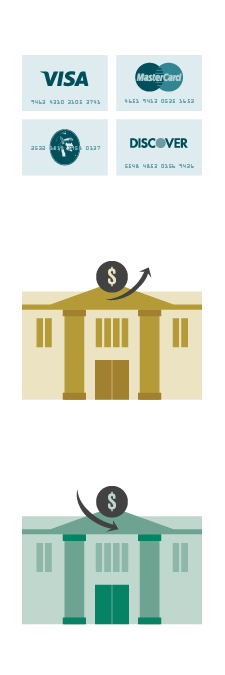
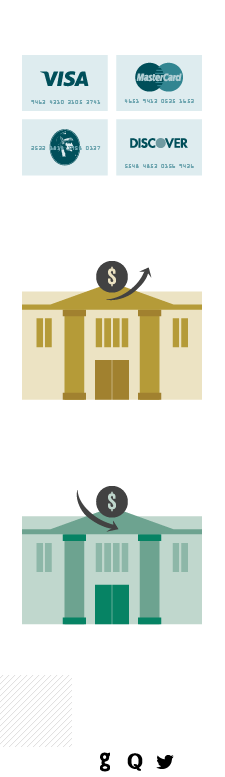
Style footer

diff --git a/static/less/root-v3.less b/static/less/root-v3.less
@@ -9,6 +9,14 @@
 
 @pageBackground: @gray1;
 
+.cssicon(@url, @width, @height, @display: inline-block) {
+  background: @url;
+  width: @width;
+  height: @height;
+  text-indent: -4000px;
+  display: @display;
+}
+
 a {
   &:hover {
     color: @black;
@@ -147,6 +155,54 @@ header {
   }
 }
 
+@media screen {
+  .print-header, .printable {
+    display: none;
+  }
+}
+
+@media print {
+  .ns .main-content-box {
+    border: 0;
+    box-shadow: none;
+    width: 100%;
+    margin: 0;
+  }
+  header, #app-menu, .sub-nav, .sn, .mask, footer {
+    display: none;
+  }
+  .boss {
+    display: block;
+    position: absolute;
+    top: 0;
+    left: 0;
+    width: 100% !important;
+  }
+  .printable {
+    display: block;
+  }
+  .print-header {
+    display: block;
+    position: absolute;
+    top: 0;
+    right: 0;
+    left:0;
+    text-align: right;
+    font-size: 80%;
+    line-height: 1.2em;
+  }
+  #print-logo {
+    display:block;
+    margin:auto;
+    width:171px;
+    height: 75px;
+    text-indent:-4000px;
+  }
+  .v2-detail {
+    margin-top: 200px;
+  }
+}
+
 #site-nav {
   .nav-menu-wrapper {
     float: right;
@@ -174,48 +230,101 @@ header {
       &:hover {
         background-color: @white;
         color: @black;
+        text-decoration: none;
       }
     }
   }
 }
 
-.navbar {
-  position: absolute;
-  top: 0;
-  right: 0;
-  margin: 0;
-  .navbar-inner {
-    padding: 0;
-  }
-  .nav {
-    &> li {
-      background-color: white;
-      height: 60px;
-      a {
-        font-family: 'NimbusSanNovCon-Bol';
-        font-weight: normal;
-        text-shadow: none;
-        font-size: 14px;
-        color: #94969a;
-        border: 0;
-        text-transform: uppercase;
-        margin: 0;
-        padding: 20px;
-        border-left: 1px solid @navLineRuleBackground;
-        letter-spacing: 0.1em;
-        height: 21px;
-      }
-      &:first-child {
-        a {
-          border-left: 0;
-        }
-      }
+.site-footer {
+  padding-bottom: 20px;
+  background-color: @black;
+
+  .flogo {
+    float: left;
+    padding: 20px;
+    .img {
+      .cssicon(
[1 lines of base64/hex data omitted]
+        @width: 22px,
+        @height: 20px,
+        @display: block
+      );
       &:hover {
-        background-color: black;
-        a {
-          color: white;
+        text-decoration: none;
+      }
+    }
+  }
+  .section-title {
+    .nav1;
+    text-transform: uppercase;
+    display: inline-block;
+    padding: 20px 0 10px 0;
+  }
+  .copyright-notice {
+    padding: 20px;
+    border-left: 1px solid @gray7;
+  }
+
+  .footer-items {
+    margin-left: 0px;
+
+    li {
+      list-style-type: none;
+      padding: 0;
+      margin: 0;
+
+      border-bottom: 1px solid @gray7;
+      &:last-child {
+        border-bottom: 0;
+      }
+
+      a {
+        .nav2;
+        &:hover {
+          color: @white;
+          text-decoration: none;
         }
       }
+    }
+  }
+
+  .two-cols {
+    .footer-items {
+      width: 45%;
+      &.col1 {
+        float: left;
+      }
+      &.col2 {
+        float: right;
+      }
+    }
+  }
+
+  a.icon {
+    float: right;
+    .cssicon(url(/images/pricing_icons.png) no-repeat, 30px, 30px);
+    // background-color: rgb(134, 134, 134);
+    background-position: -0px -747px;
+    margin: 15px 5px;
+    &.quora {
+      background-position: -30px -747px;
+      &:hover {
+        background-position: -120px -747px;
+      }
+    }
+    &.github {
+      background-position: -0px -747px;
+      &:hover {
+        background-position: -90px -747px;
+      }
+    }
+    &.twitter {
+      background-position: -60px -747px;
+      &:hover {
+        background-position: -150px -747px;
+      }
+      margin-right: 0px;
     }
   }
 }

diff --git a/templates/layout-v3.html b/templates/layout-v3.html
@@ -12,7 +12,6 @@
     <!--[if lt IE 9]>
     <script type="text/javascript" src="/js/lib/html5shiv.js"></script>
     <![endif]-->
-    <link rel="stylesheet" href="/static/css/base.css">
     <link rel="stylesheet" href="/static/css/root-v3.css">
 
     {% block head %}{% endblock %}
@@ -20,7 +19,7 @@
   </head>
   <body class="{{ page.metadata.body_class }}">
 
-    <header id="header" class="container">
+    <header class="container site-header">
       <div class="row">
         <div class="span4">
           <a href="/" class="logo"><img src="/images/homepage_logo-01.png" alt="Balanced Logo" title="Balanced - Card processing, escrow, and payouts in one simple API"></a>
@@ -99,26 +98,43 @@
 
     </div>
 
-    <footer>
-
-      <div>
-        <p>
-          <strong>Balanced</strong>
-          <a href="/about">About</a>
-          <a href="http://blog.balancedpayments.com" target="_new">Blog</a>
-          <a href="https://status.balancedpayments.com" target="_new">Status</a>
-          <a href="https://twitter.com/balanced" target="_new" class="twitter">Twitter</a>
-        </p>
-        <p>
-          <strong>Legal</strong>
-          <a href="/terms">Terms of use</a>
-          <a href="/privacy">Privacy policy</a>
-        </p>
-        <p>Copyright &copy; 2013. Balanced.
-        </p>
-        <p id="cards">American Express, VISA, MC, and Discover</p>
+    <footer id="footer" class="site-footer">
+      <div class="container">
+        <div class="row">
+          <div class="span5">
+            <div class="flogo">
+                <a href="https://www.balancedpayments.com" target="_blank" class="img">Logo</a>
+            </div>
+            <span class="section-title copyright-notice">&copy; 2013 Balanced</span>
+          </div>
+          <div class="span6 offset6">
+            <span class="section-title">Company</span>
+            <div class="two-cols">
+              <ul class="footer-items col1">
+                <li><a href="/about">About</a></li>
+                <li><a href="http://www.fastcolabs.com/3008944/open-company/why-i-made-my-payments-startup-an-open-company" target="_new">Being "Open"</a></li>
+                <li><a href="https://github.com/balanced/balanced-api/issues/94" target="_new">Press &amp; Events</a></li>
+              </ul>
+              <ul class="footer-items col2">
+                <li><a href="http://blog.balancedpayments.com" target="_new">Blog</a></li>
+                <li><a href="mailto:support@balancedpayments.com">Contact</a></li>
+              </ul>
+            </div>
+          </div>
+          <div class="span3 offset1">
+            <span class="section-title">Legal</span>
+            <ul class="footer-items">
+              <li><a href="/privacy">Privacy policy</a></li>
+              <li><a href="/terms">Terms of use</a></li>
+            </ul>
+          </div>
+          <div class="span3">
+            <a href="https://twitter.com/balanced" target="_blank" class="icon twitter">Balanced on Twitter</a>
+            <a href="http://quora.com/balanced" target="_blank" class="icon quora">Balanced on Quora</a>
+            <a href="https://github.com/balanced" target="_blank" class="icon github">Balanced on Github</a>
+          </div>
+        </div>
       </div>
-
     </footer>
 
     <div id="body-content-queue"></div>
